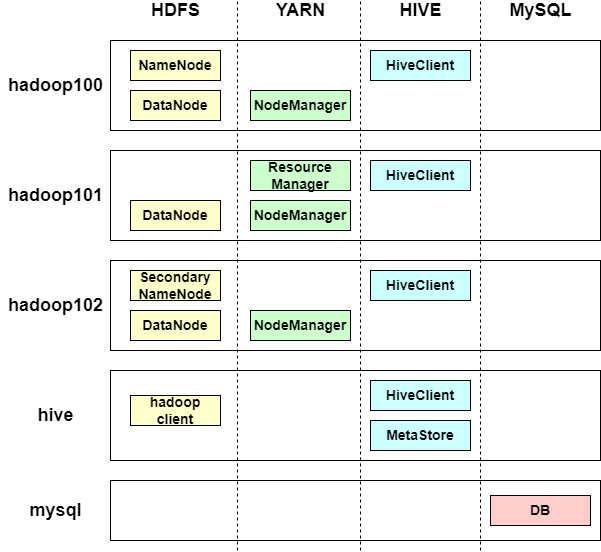
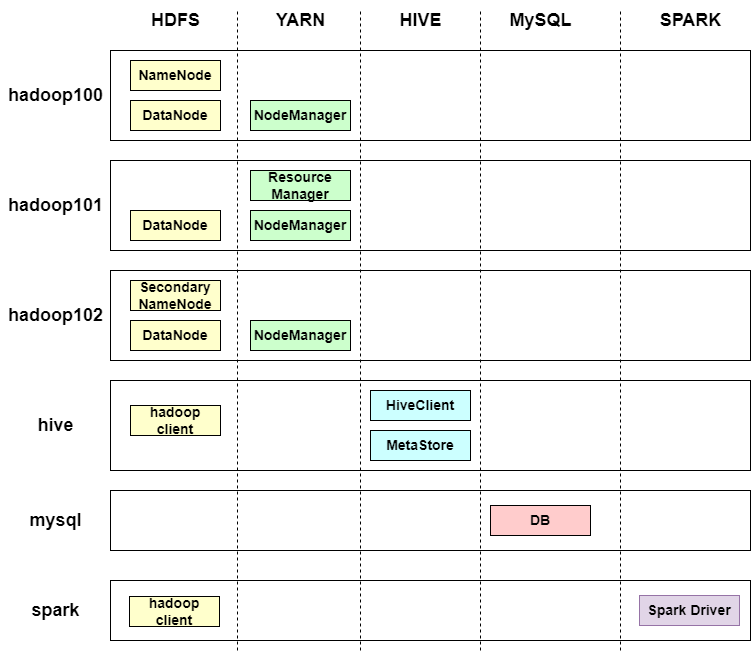
Add Spark component. (#2)
* Add spark component

* split spark_builtin_hadoop version

diff --git a/README.md b/README.md
@@ -3,6 +3,7 @@
 Hadoop docker project is used to build and start up a big data cluster in some docker containers. It is a convenient tool to try and test the big data components. Currently the components we support includes:
 - [Apache Hadoop](https://hadoop.apache.org/)
 - [Apache Hive](https://hive.apache.org/)
+- [Apache Spark](https://spark.apache.org/)
 
 
 ## Overview
@@ -11,6 +12,11 @@ Hadoop docker project is used to build and start up a big data cluster in some d
 The big data components are optional while starting up the cluster.
 - For the hadoop component, there are 3 nodes whose hostnames are `hadoop100`, `hadoop101` and `hadoop102`.
 - For the hive component, there are one node whose hostname is `hive`, and hive component depends on the `mysql` node.
+- For the spark component, there is one node whose hostname is `spark` as the spark driver.
+
+The docker image depandency is as follows:
+
+![docker image depandency](docker-images.png)
 
 ## Prerequisite
 - docker, docker-compose
